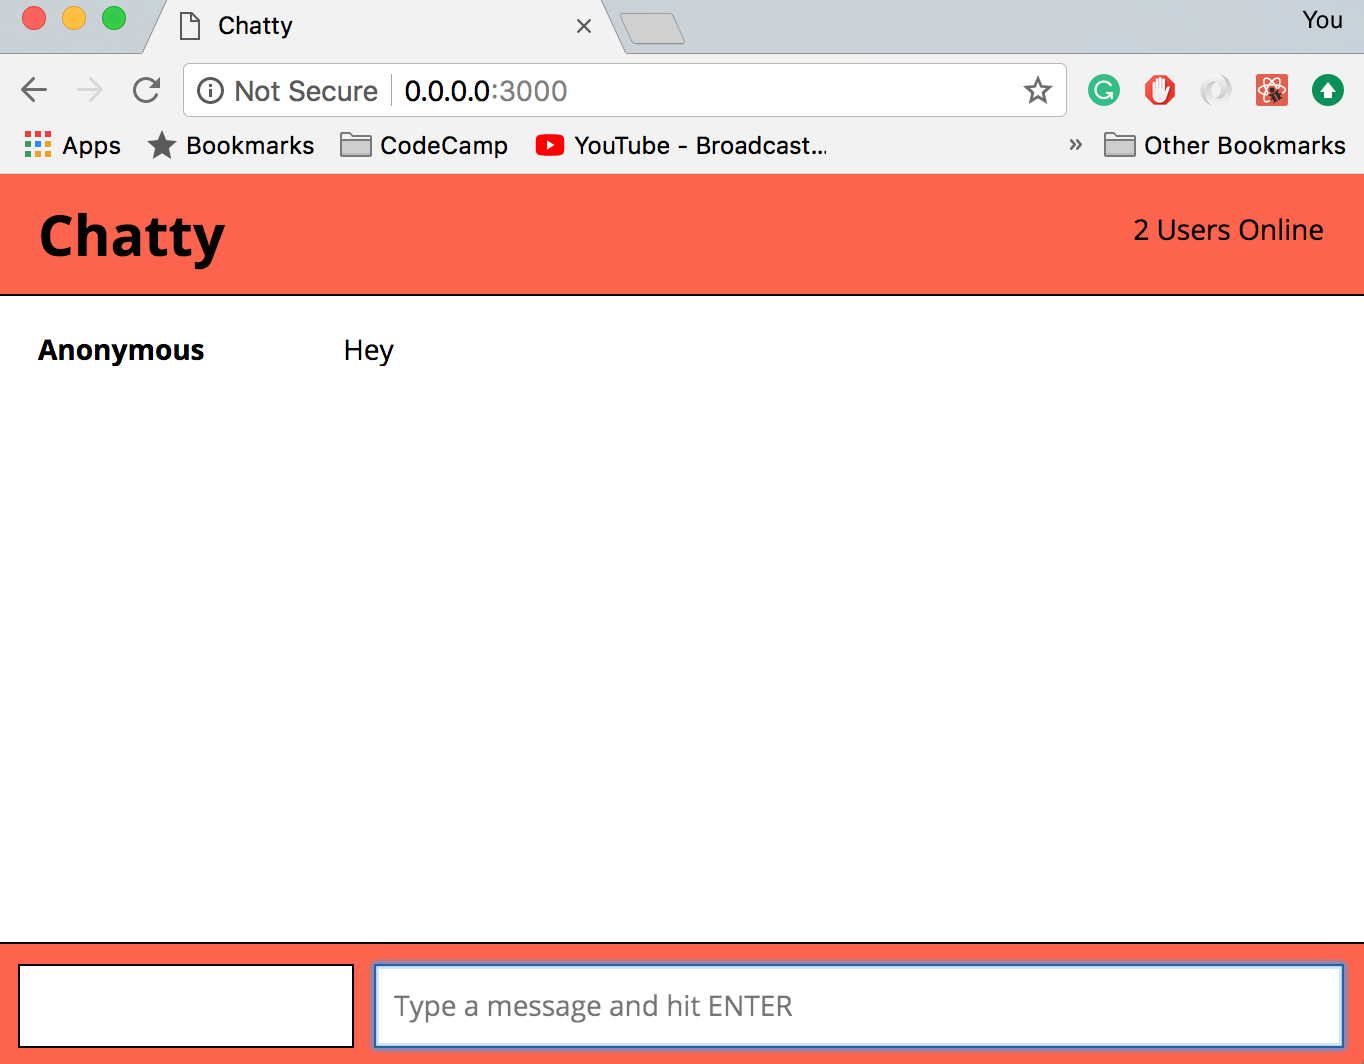
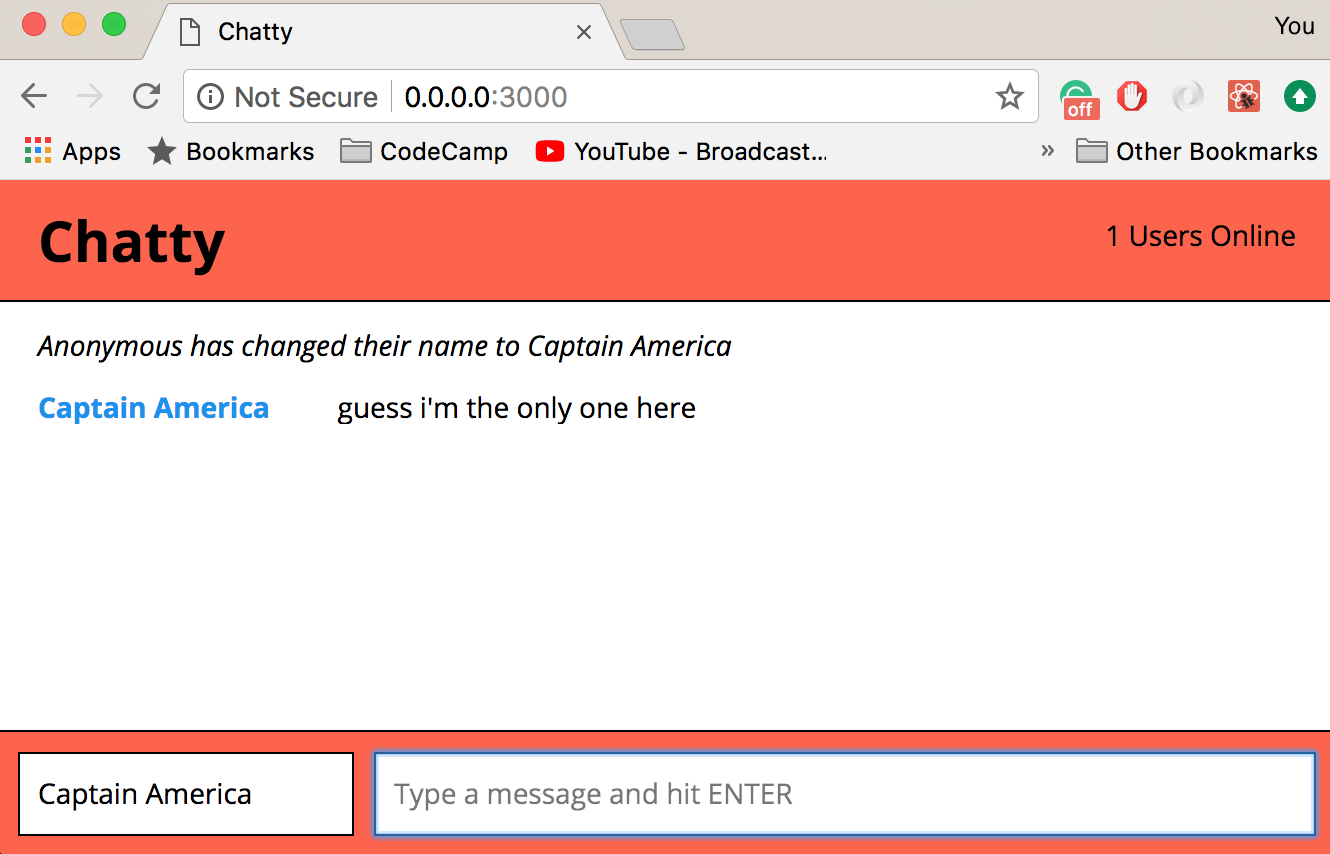
Update screenshots and readme

diff --git a/README.md b/README.md
@@ -3,7 +3,7 @@ Chatty App Project
 
 # Chatty App Project
 
-Chatty app is a client-side SPA (single-page app) built with ReactJS. Chatty will allow users to communicate with each other without having to register accounts.
+Chatty app is a client-side SPA (single-page app) built with ReactJS. Chatty will allow users to communicate with each other without having to register accounts. Users will be assigned as anonymous until a user inputs a new username and press `enter`. Each users will be assigned a random color to differentiate themselves from other users. A user can post an image by sending an image url through the chat box.
 
 
 ## Screenshots
@@ -30,3 +30,4 @@ Chatty app is a client-side SPA (single-page app) built with ReactJS. Chatty wil
 * UUID
 * WS
 * randomcolor
+* is-img-url
